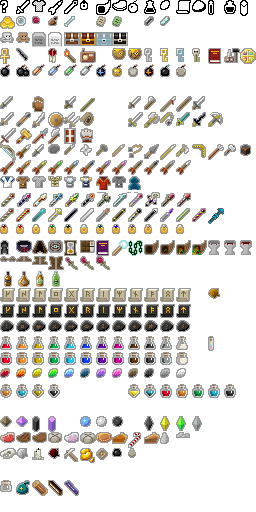
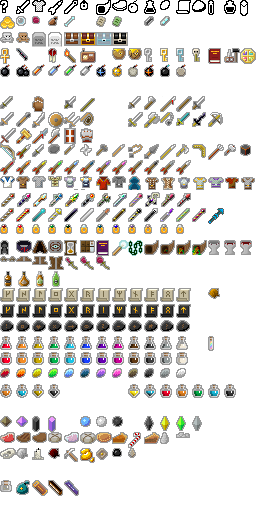
Armour being reworked

Changed region(s): [[0.5625, 0.3438, 1.0, 0.375]]

diff --git a/core/src/main/java/com/shatteredpixel/yasd/items/armor/Armor.java b/core/src/main/java/com/shatteredpixel/yasd/items/armor/Armor.java
@@ -279,11 +279,6 @@ public class Armor extends KindofMisc {
 	public int magicalDRRoll(int lvl) {
 		return Random.NormalIntRange(DRMin(lvl), DRMax(lvl));
 	}
-
-	public float evasionMultiplier(Char owner) {
-		float evasion = owner.defenseSkill(owner);
-		return (evasion/evasionFactor(owner,evasion));
-	}
 	
 	public float evasionFactor( Char owner, float evasion ){
 		
@@ -302,11 +297,6 @@ public class Armor extends KindofMisc {
 		}
 		
 		return Math.round(evasion + augment.evasionFactor(level()) * EVA);
-	}
-
-	public float speedMultiplier(Char owner) {
-		float speed = owner.speed();
-		return (speed/speedFactor(owner,speed));
 	}
 
 	public float speedFactor( Char owner, float speed ){
@@ -437,7 +427,7 @@ public class Armor extends KindofMisc {
 			info += "\n\n" + Messages.get(Armor.class, "curr_absorb", tier, DRMin(), DRMax(), STRReq());
 
 			if (magicalDRMax() > 0) {
-				info += " " + Messages.get(Armor.class, "curr_absorb_magic",  DRMin(), DRMax());
+				info += " " + Messages.get(Armor.class, "curr_absorb_magic",  magicalDRMin(), magicalDRMax());
 			}
 			
 			if (STRReq() > Dungeon.hero.STR()) {
@@ -470,21 +460,21 @@ public class Armor extends KindofMisc {
 			info += "\n";
 
 			if (EVA > 1f) {
-				info += "\n" + Messages.get(Armor.class, "eva_increase", (double) (EVA-1f)*100);
+				info += "\n" + Messages.get(Armor.class, "eva_increase", Math.round((EVA-1f)*100));
 			} else if (EVA < 1f) {
-				info += "\n" + Messages.get(Armor.class, "eva_decrease", (double) (1f-EVA)*100);
+				info += "\n" + Messages.get(Armor.class, "eva_decrease", (double) Math.round((1f-EVA)*100));
 			}
 
 			if (STE > 1f) {
-				info += "\n" + Messages.get(Armor.class, "ste_increase", (double) (STE-1f)*100);
+				info += "\n" + Messages.get(Armor.class, "ste_increase", (double) Math.round((STE-1f)*100));
 			} else if (STE < 1f) {
-				info += "\n" + Messages.get(Armor.class, "ste_decrease", (double) (1f-STE)*100);
+				info += "\n" + Messages.get(Armor.class, "ste_decrease", (double) Math.round((1f-STE)*100));
 			}
 
 			if (speedFactor > 1f) {
-				info += "\n" + Messages.get(Armor.class, "speed_increase", (double) (speedFactor-1f)*100);
+				info += "\n" + Messages.get(Armor.class, "speed_increase", (double) Math.round((speedFactor-1f)*100));
 			} else if (speedFactor < 1f) {
-				info += "\n" + Messages.get(Armor.class, "speed_decrease", (double) (1f-speedFactor)*100);
+				info += "\n" + Messages.get(Armor.class, "speed_decrease", (double) Math.round((1f-speedFactor)*100));
 			}
 		}
 		

diff --git a/core/src/main/java/com/shatteredpixel/yasd/sprites/ItemSpriteSheet.java b/core/src/main/java/com/shatteredpixel/yasd/sprites/ItemSpriteSheet.java
@@ -329,16 +329,23 @@ public class ItemSpriteSheet {
 			assignItemRect(i, 15, 15);
 	}
 	
-	private static final int ARMOR          =                               xy(1, 12);  //16 slots
-	public static final int ARMOR_CLOTH     = ARMOR+0;
-	public static final int ARMOR_LEATHER   = ARMOR+1;
-	public static final int ARMOR_MAIL      = ARMOR+2;
-	public static final int ARMOR_SCALE     = ARMOR+3;
-	public static final int ARMOR_PLATE     = ARMOR+4;
-	public static final int ARMOR_WARRIOR   = ARMOR+5;
-	public static final int ARMOR_MAGE      = ARMOR+6;
-	public static final int ARMOR_ROGUE     = ARMOR+7;
-	public static final int ARMOR_HUNTRESS  = ARMOR+8;
+	private static final int ARMOR                  =                               xy(1, 12);  //16 slots
+	public static final int ARMOR_CLOTH             = ARMOR+0;
+	public static final int ARMOR_LEATHER           = ARMOR+1;
+	public static final int ARMOR_MAIL              = ARMOR+2;
+	public static final int ARMOR_SCALE             = ARMOR+3;
+	public static final int ARMOR_PLATE             = ARMOR+4;
+	public static final int ARMOR_WARRIOR           = ARMOR+5;
+	public static final int ARMOR_MAGE              = ARMOR+6;
+	public static final int ARMOR_ROGUE             = ARMOR+7;
+	public static final int ARMOR_HUNTRESS          = ARMOR+8;
+	public static final int ARMOR_STUDDED           = ARMOR+9;
+	public static final int ARMOR_HIDE				= ARMOR+10;
+	public static final int ARMOR_BANDED			= ARMOR+11;
+	public static final int ARMOR_CHAINMAIL_ELVISH  = ARMOR+12;
+	public static final int ARMOR_CHAINMAIL_DWARVISH= ARMOR+13;
+	public static final int ARMOR_CHAINMAIL_ORCISH  = ARMOR+14;
+	public static final int ARMOR_RINGMAIL 			= ARMOR+15;
 	static{
 		assignItemRect(ARMOR_CLOTH,     15, 12);
 		assignItemRect(ARMOR_LEATHER,   14, 13);

diff --git a/core/src/main/java/com/shatteredpixel/yasd/actors/hero/HeroClass.java b/core/src/main/java/com/shatteredpixel/yasd/actors/hero/HeroClass.java
@@ -33,6 +33,7 @@ import com.shatteredpixel.yasd.items.alcohol.Beer;
 import com.shatteredpixel.yasd.items.alcohol.Whiskey;
 import com.shatteredpixel.yasd.items.armor.ClothArmor;
 import com.shatteredpixel.yasd.items.armor.HuntressArmor;
+import com.shatteredpixel.yasd.items.armor.LeadArmour;
 import com.shatteredpixel.yasd.items.armor.MageArmor;
 import com.shatteredpixel.yasd.items.armor.RogueArmor;
 import com.shatteredpixel.yasd.items.armor.WarriorArmor;
@@ -132,6 +133,8 @@ public enum HeroClass {
 		new ScrollOfIdentify().identify().collect();
 		new StoneOfRepair().collect();
 		new Beer().collect();
+
+		new LeadArmour().collect();
 		//new WandOfDarkness().identify().collect();
 		//new WandOfLightning().identify().collect();
 		//new PotionOfHealing().collect();

diff --git a/core/src/main/java/com/shatteredpixel/yasd/items/armor/LeadArmour.java b/core/src/main/java/com/shatteredpixel/yasd/items/armor/LeadArmour.java
@@ -1,0 +1,22 @@
+package com.shatteredpixel.yasd.items.armor;
+
+import com.shatteredpixel.yasd.sprites.ItemSpriteSheet;
+
+public class LeadArmour extends Armor {
+    {
+        image = ItemSpriteSheet.ARMOR_BANDED;
+
+        EVA = 0.6f;
+        magicalDRFactor = 0.5f;
+        DRfactor = 1.2f;
+        speedFactor = 2/3f;
+    }
+    public LeadArmour() {
+        super(5);
+    }
+
+    @Override
+    public int appearance() {
+        return 5;
+    }
+}

diff --git a/core/src/main/java/com/shatteredpixel/yasd/items/armor/WarriorArmor.java b/core/src/main/java/com/shatteredpixel/yasd/items/armor/WarriorArmor.java
@@ -26,7 +26,7 @@ import com.shatteredpixel.yasd.sprites.ItemSpriteSheet;
 public class WarriorArmor extends ClothArmor {
 
 	{
-		image = ItemSpriteSheet.ARMOR_LEATHER;
+		image = ItemSpriteSheet.ARMOR_STUDDED;
 		magicalDRFactor = 0.5f;
 		STE = 0.75f;
 		EVA = 0.75f;
